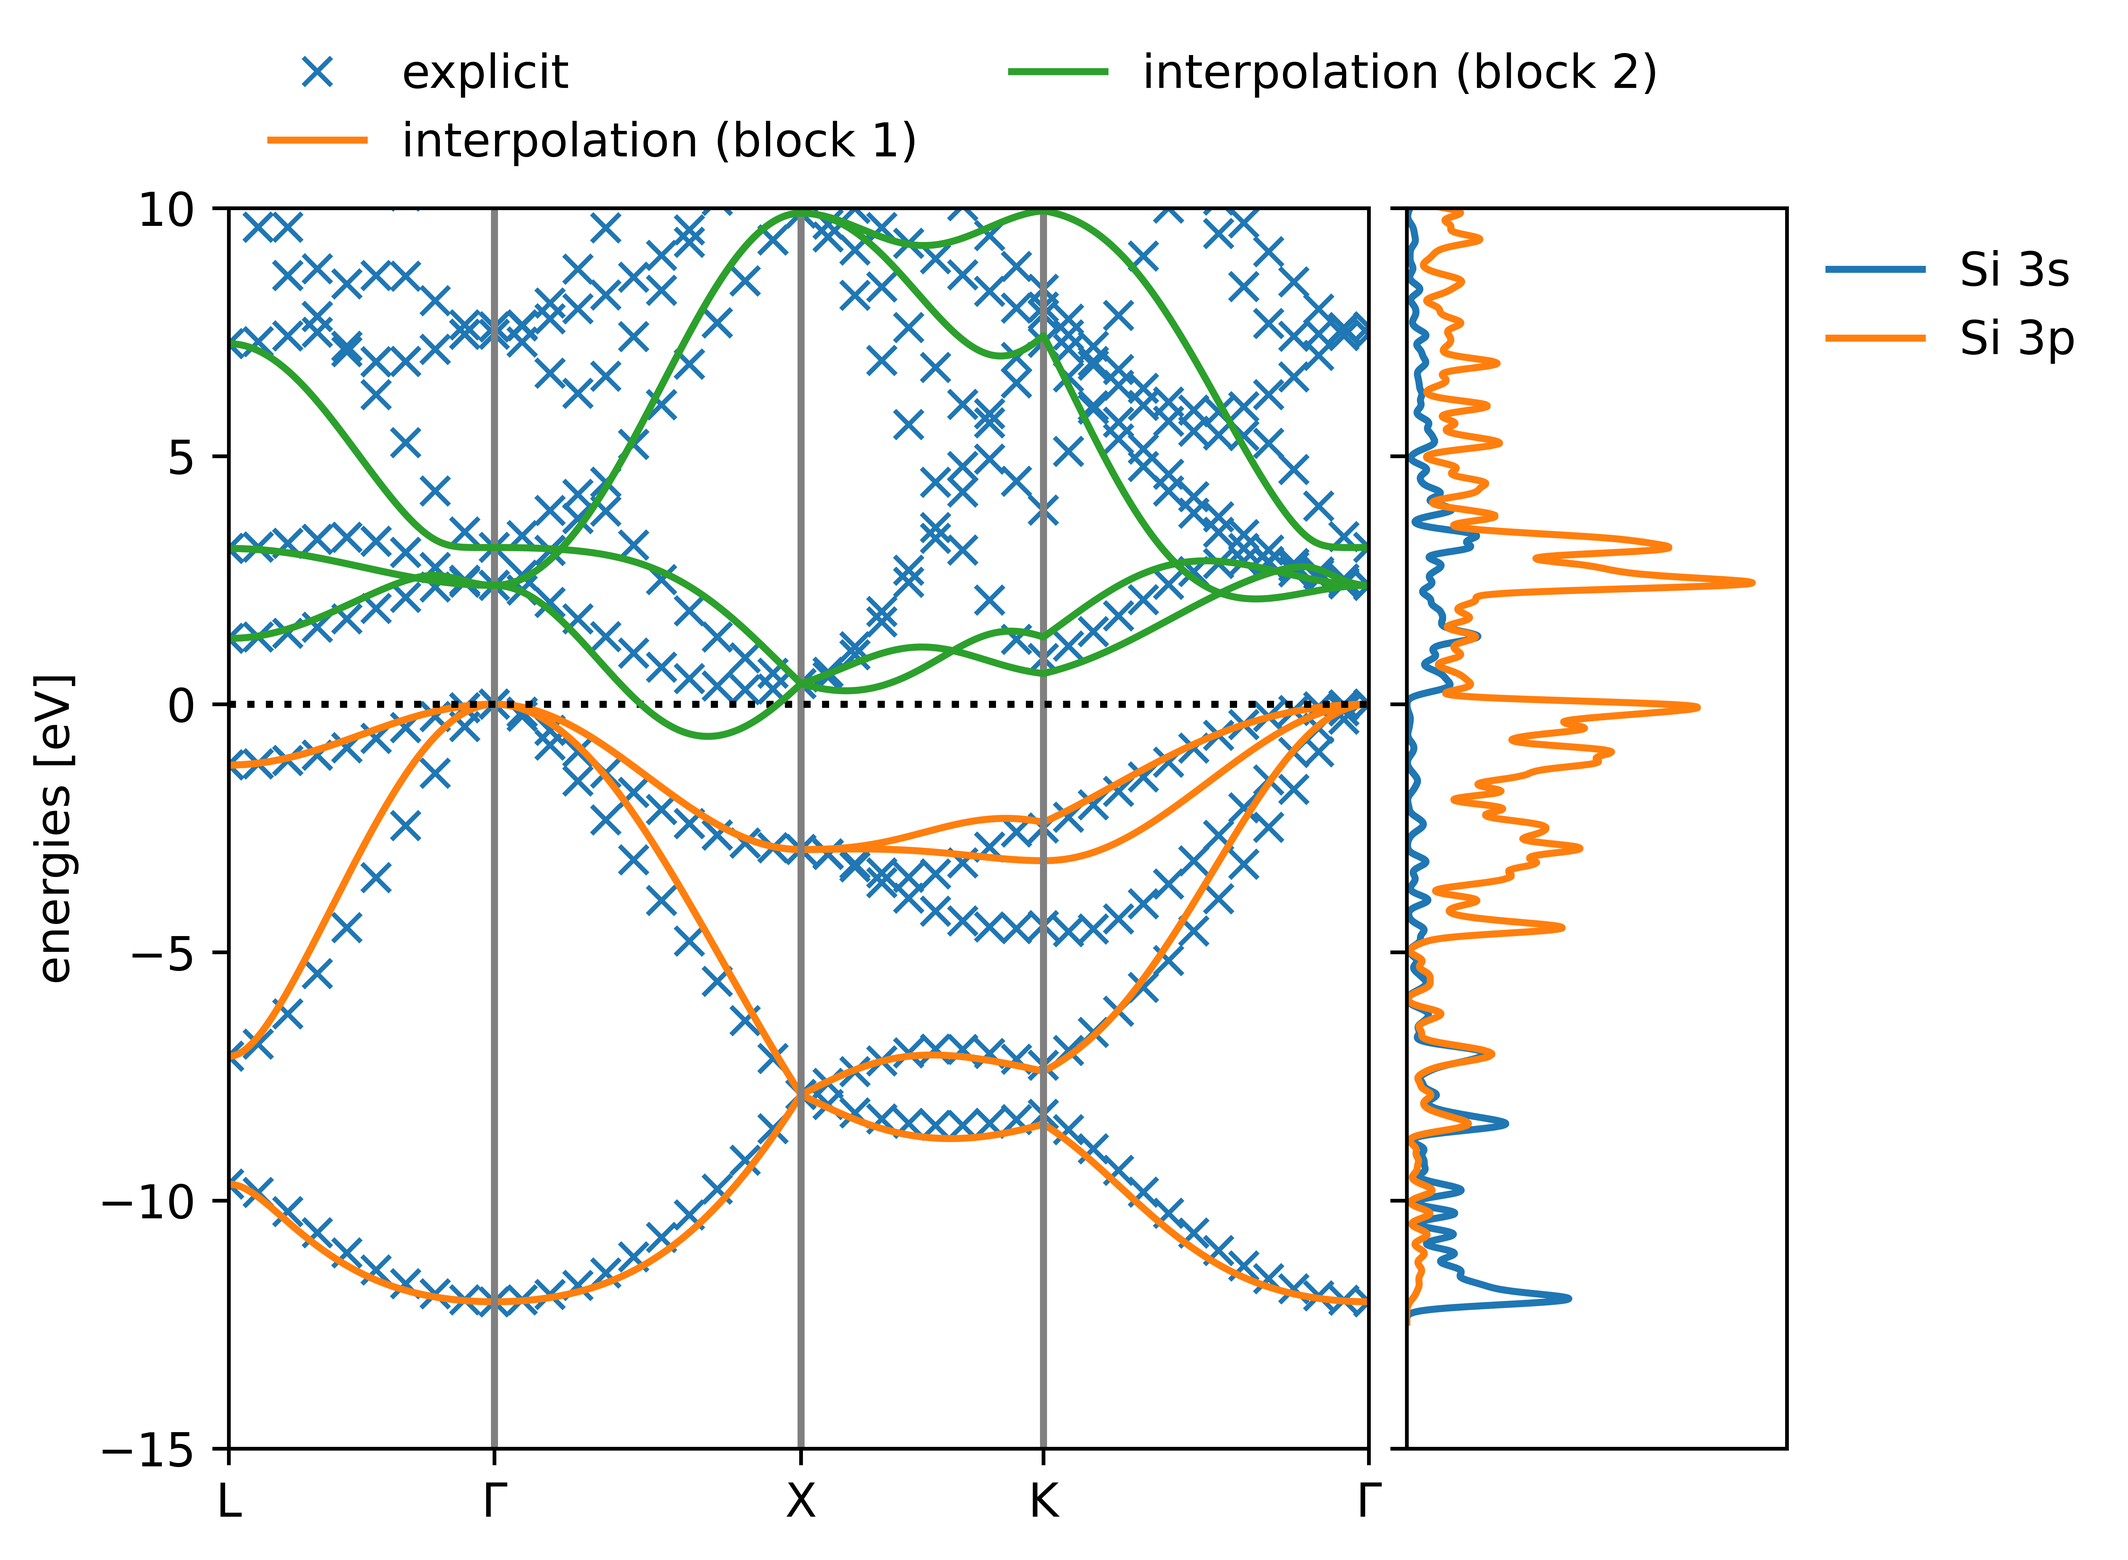
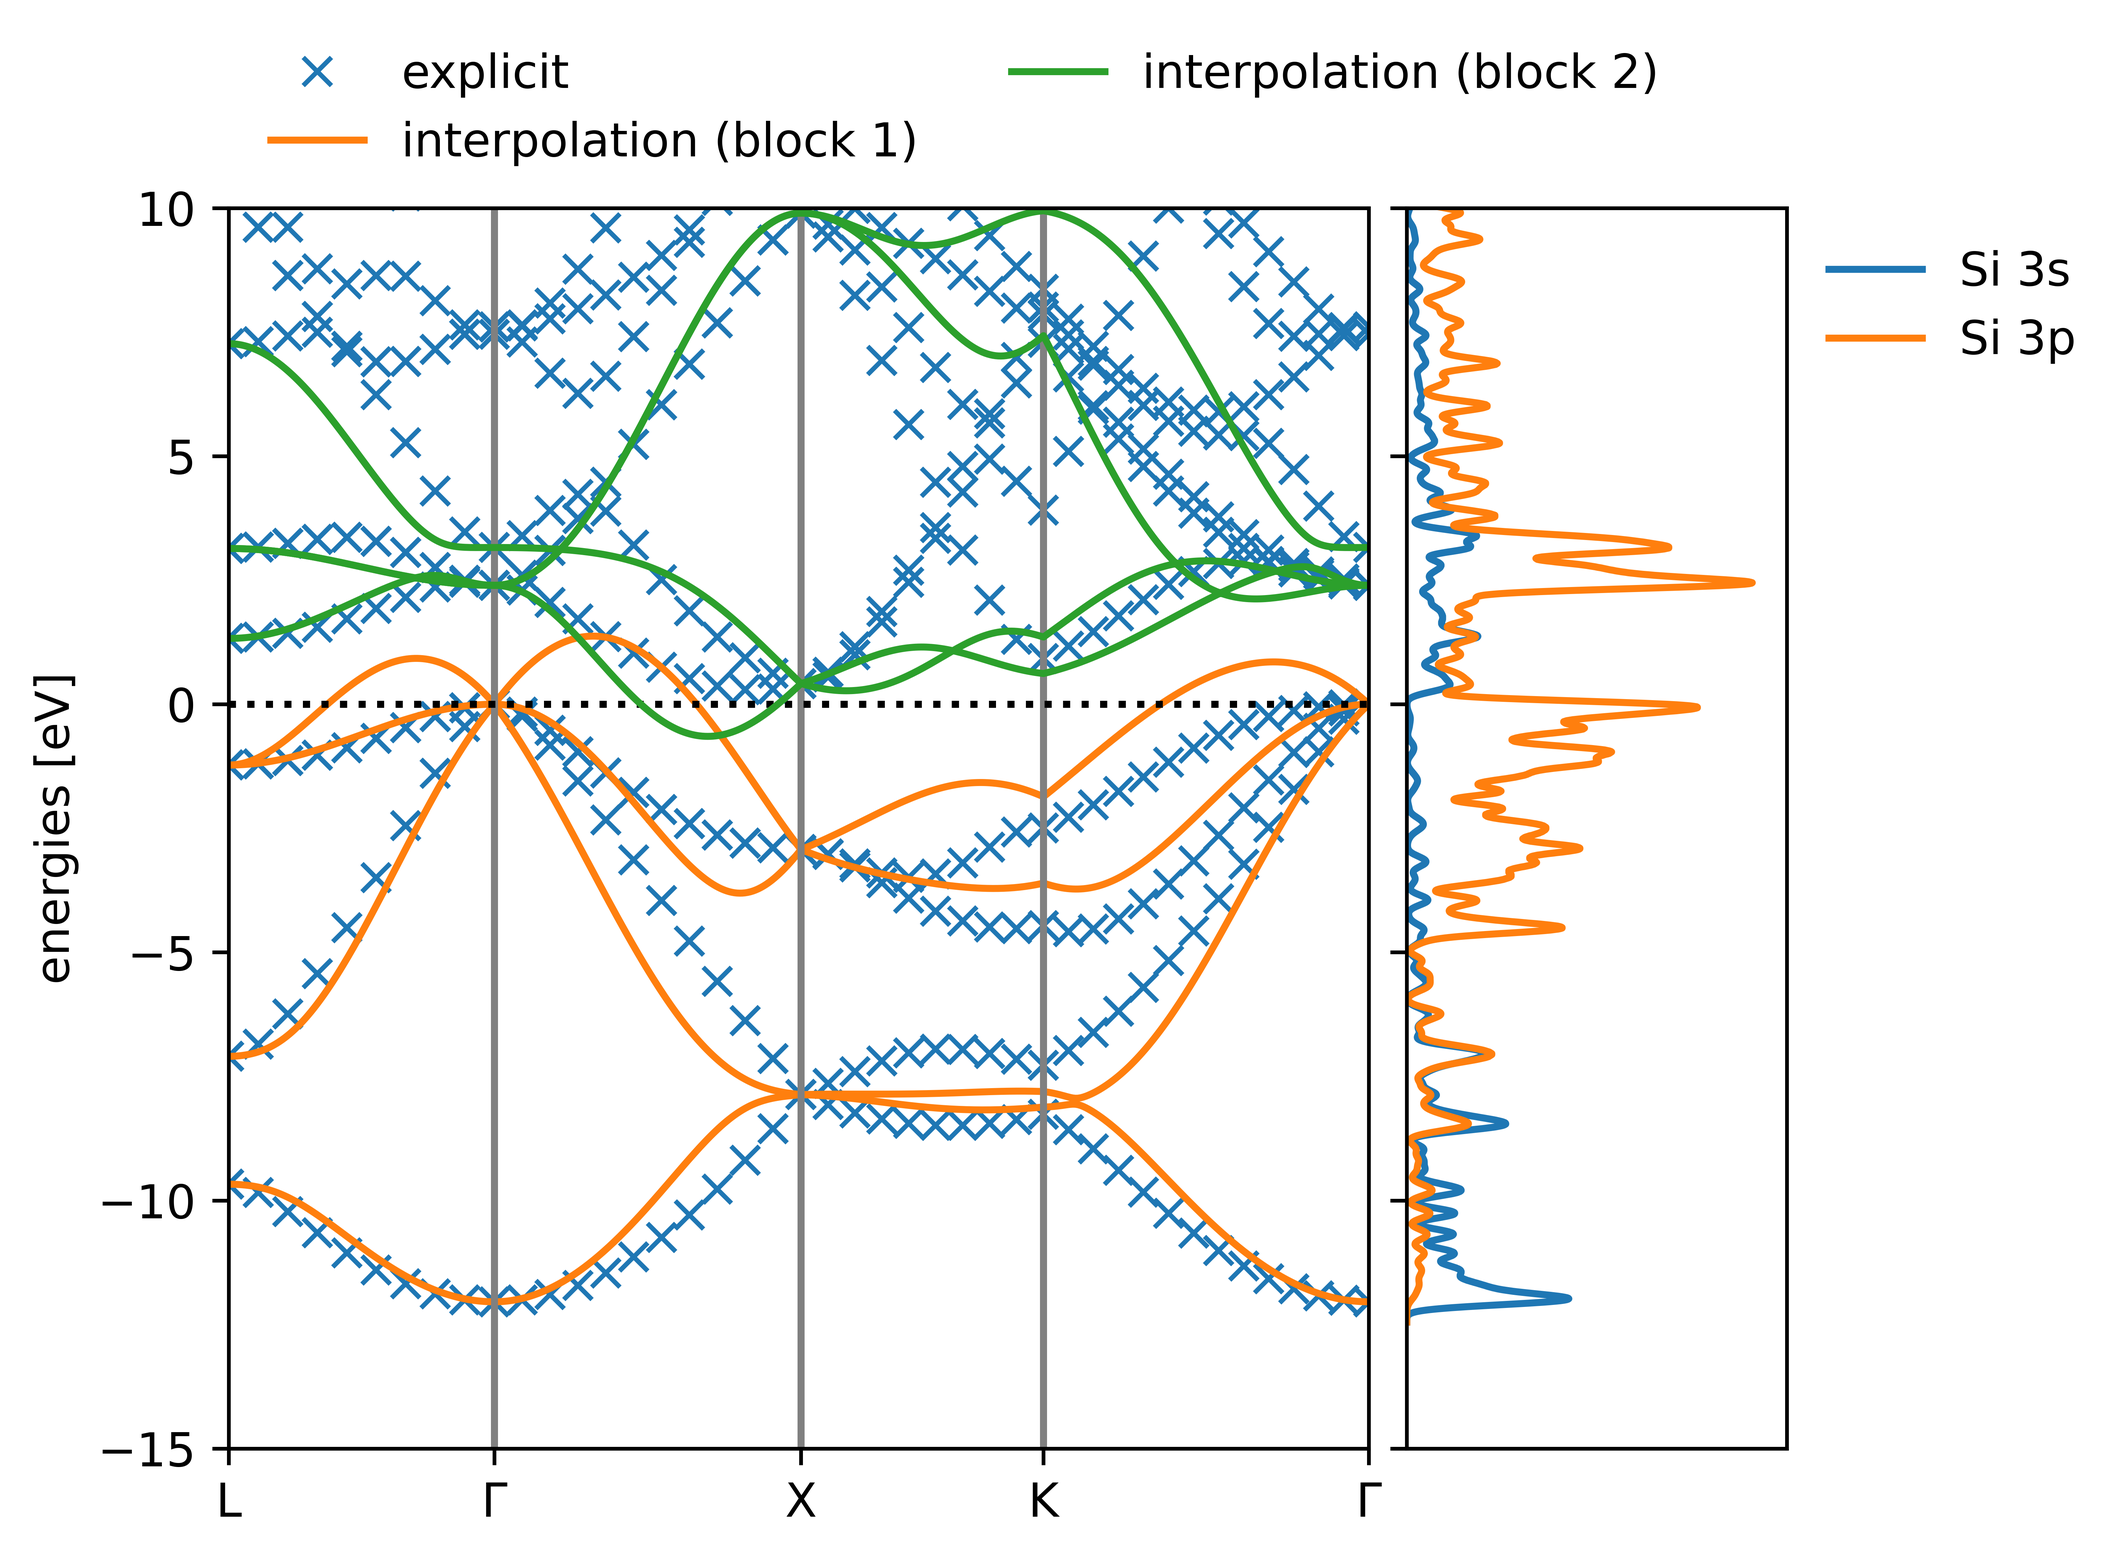
Overhauled sorting

diff --git a/src/koopmans/variational_orbitals.py b/src/koopmans/variational_orbitals.py
@@ -207,7 +207,7 @@ class VariationalOrbitals(BaseModel):
         return [[o.index for o in self if o.spin == spin] for spin in self.spin_channels]
 
     @property
-    def groups(self):
+    def groups(self) -> list[list[int]]:
         """Return a list of the groups of each orbital."""
         return [[o.group for o in self if o.spin == spin] for spin in self.spin_channels]
 
@@ -217,59 +217,7 @@ class VariationalOrbitals(BaseModel):
         for o, v in zip(self, [v for subarray in value for v in subarray]):
             o.group = v
 
-    def _assign_groups_fcluster(self, data, default_tol: float, revised_tol: Optional[float] = None):
-        tol = revised_tol if revised_tol is not None else default_tol
-        if tol < 0.01 * default_tol:
-            raise Exception('Clustering algorithm failed; could not find a clustering with well-separated groups even '
-                            'for much smaller thresholds')
-
-        from scipy.cluster.hierarchy import fcluster, linkage
-
-        # Complete linkage clustering
-        Z = linkage(data, method='complete')
-        labels = fcluster(Z, t=tol, criterion='distance')
-
-        # Check the sets have spreads that are separated by at least 2 * tol
-        clustered_data = [data[labels == i] for i in set(labels)]
-        clusters_edges = [(np.min(c, axis=0), np.max(c, axis=0)) for c in clustered_data]
-
-        well_separated = True
-        for i, cluster_edges in enumerate(clusters_edges):
-            other_cluster_edges = clusters_edges[:i] + clusters_edges[i + 1:]
-
-            if any([np.abs(edge - other_edge).sum() < 2 * tol for edge in cluster_edges for other_edge in
-                    other_cluster_edges]):
-                # The clusters are not well-separated
-                well_separated = False
-                break
-
-        logger = logging.getLogger(__name__)
-        if well_separated:
-            if revised_tol != default_tol:
-                warn(f'It was not possible to group orbitals with a tolerance of '
-                     f'{default_tol:.2e} eV. A grouping was found for a revised tolerance of {revised_tol:.2e} eV. '
-                     f'If you want to group more orbitals together, increase the default tolerance.')
-                logger.info(f'Orbitals groups found using a decreased tolerance of {tol:.2e} eV')
-
-            # Reorder labels to start from 1
-            mapping = {}
-            max_label = 0
-            for label in labels:
-                if label not in mapping:
-                    max_label += 1
-                    mapping[label] = max_label
-
-            return [mapping[label] for label in labels]
-        else:
-            new_tol = 0.9 * tol
-            logger.debug(f'Clusters not well-separated; trying with a reduced tolerance of {new_tol:.2e} eV')
-
-            return self._assign_groups_fcluster(data=data,
-                                                default_tol=default_tol,
-                                                revised_tol=new_tol)
-
-    def assign_groups(self, sort_by: str = 'self_hartree',
-                      allow_reassignment: bool = False):
+    def assign_groups(self, sort_by: str = 'self_hartree', blocks: Optional[List[List[int]]] = None):
         """Cluster the orbitals into groups based on the specified attribute."""
         if self.tolerances == {}:
             # Do not perform clustering
@@ -279,22 +227,40 @@ class VariationalOrbitals(BaseModel):
             return ValueError(f'Cannot sort orbitals according to {sort_by}; valid choices are'
                               + '/'.join(self.tolerances.keys()))
 
+        tol = self.tolerances[sort_by]
         logger = logging.getLogger(__name__)
-        logger.info(f'Grouping orbitals by {sort_by} with tolerance {self.tolerances[sort_by]:.2e} eV')
+        logger.info(f'Grouping orbitals by {sort_by} with tolerance {tol:.2e} eV')
 
         # Construct an array to use for clustering. By adding spin and filled as extra dimensions, we ensure that
         # orbitals with different spins or filling will not be grouped together.
-        all_spin_values = [s for s in Spin]
-        tol = self.tolerances[sort_by]
-        data = np.array([[getattr(o, sort_by), all_spin_values.index(
-            o.spin), -2 * tol if o.filled else 2 * tol] for o in self])
 
+        # Select the subsets
+        if blocks is None:
+            subset_tuples = [(o.spin, o.filled, o.index) for o in self]
+        elif set([b for block in blocks for b in block]) != set([o.index for o in self]):
+            raise ValueError("The provided blocks do not match the indices of the orbitals.")
+        else:
+            subset_tuples = []
+            for orb in self:
+                block_index = next(i for i, block in enumerate(blocks) if orb.index in block)
+                subset_tuples.append((orb.spin, block_index, orb.filled))
+
+        min_group_index = 0
         # Find the groups
-        groups = self._assign_groups_fcluster(data=data, default_tol=tol, revised_tol=tol)
+        for subset in sorted(set(subset_tuples)):
+            orbitals = [o for o, s in zip(self, subset_tuples, strict=True) if s == subset]
+            data = [[getattr(o, sort_by)] for o in orbitals]
 
-        # Assign the groups
-        for orbital, group in zip(self.orbitals, groups):
-            orbital.group = group
+            # Find the groups
+            if len(data) == 1:
+                groups = [1]
+            else:
+                groups = _assign_groups_fcluster(data=np.array(data), default_tol=tol, revised_tol=tol)
+
+            # Assign the groups
+            for orbital, group in zip(orbitals, groups):
+                orbital.group = group + min_group_index
+            min_group_index += max(groups)
 
         # Logging
         for spin_groups in self.groups:
@@ -455,3 +421,55 @@ class VariationalOrbitals(BaseModel):
     def predicted_alpha_history(self, spin: Spin = Spin.NONE) -> pd.DataFrame:
         """Return a dataframe that contains the history of the predicted screening parameters."""
         return self._create_dataframe('predicted_alpha', spin=spin)
+
+
+def _assign_groups_fcluster(data, default_tol: float, revised_tol: Optional[float] = None) -> list[int]:
+    tol = revised_tol if revised_tol is not None else default_tol
+    if tol < 0.01 * default_tol:
+        raise Exception('Clustering algorithm failed; could not find a clustering with well-separated groups even '
+                        'for much smaller thresholds')
+
+    from scipy.cluster.hierarchy import fcluster, linkage
+
+    # Complete linkage clustering
+    Z = linkage(data, method='complete')
+    labels = fcluster(Z, t=tol, criterion='distance')
+
+    # Check the sets have spreads that are separated by at least 2 * tol
+    clustered_data = [data[labels == i] for i in set(labels)]
+    clusters_edges = [(np.min(c, axis=0), np.max(c, axis=0)) for c in clustered_data]
+
+    well_separated = True
+    for i, cluster_edges in enumerate(clusters_edges):
+        other_cluster_edges = clusters_edges[:i] + clusters_edges[i + 1:]
+
+        if any([np.abs(edge - other_edge).sum() < 2 * tol for edge in cluster_edges for other_edge in
+                other_cluster_edges]):
+            # The clusters are not well-separated
+            well_separated = False
+            break
+
+    logger = logging.getLogger(__name__)
+    if well_separated:
+        if revised_tol != default_tol:
+            warn(f'It was not possible to group orbitals with a tolerance of '
+                 f'{default_tol:.2e} eV. A grouping was found for a revised tolerance of {revised_tol:.2e} eV. '
+                 f'If you want to group more orbitals together, increase the default tolerance.')
+            logger.info(f'Orbitals groups found using a decreased tolerance of {tol:.2e} eV')
+
+        # Reorder labels to start from 1
+        mapping = {}
+        max_label = 0
+        for label in labels:
+            if label not in mapping:
+                max_label += 1
+                mapping[label] = max_label
+
+        return [mapping[label] for label in labels]
+    else:
+        new_tol = 0.9 * tol
+        logger.debug(f'Clusters not well-separated; trying with a reduced tolerance of {new_tol:.2e} eV')
+
+        return _assign_groups_fcluster(data=data,
+                                       default_tol=default_tol,
+                                       revised_tol=new_tol)

diff --git a/src/koopmans/workflows/_koopmans_dfpt.py b/src/koopmans/workflows/_koopmans_dfpt.py
@@ -218,6 +218,13 @@ class KoopmansDFPTWorkflow(Workflow[KoopmansDFPTOutputs]):
                     wannier_files_to_link_by_spin[-1][u_dis_file] = \
                         wf_workflow.outputs.u_dis_files[block_id]
 
+                if unique:
+                    # Also add the separated occupied and empty Hamiltonian files to dft_ham_files
+                    for filled in [True, False]:
+                        block_id = BlockID(filled=filled, spin=spin, unique=False)
+                        dft_ham_files[block_id] = wf_workflow.outputs.hr_files[block_id]
+
+            blocks = [p.include_bands for p in wf_workflow.outputs.projections]
         else:
             # Run PW
             self.print('Initialization of density and variational orbitals', style='heading')
@@ -236,6 +243,7 @@ class KoopmansDFPTWorkflow(Workflow[KoopmansDFPTOutputs]):
 
             init_pw = pw_workflow.calculations[0]
             wannier_files_to_link_by_spin = [{}, {}] if self.parameters.spin_polarized else [{}]
+            blocks = []
 
         spin_components = [1, 2] if self.parameters.spin_polarized else [1]
 
@@ -265,7 +273,8 @@ class KoopmansDFPTWorkflow(Workflow[KoopmansDFPTOutputs]):
             if self.parameters.calculate_alpha:
                 if self.parameters.dfpt_coarse_grid is None:
                     screen_wf = ComputeScreeningViaDFPTWorkflow.fromparent(
-                        self, wannier_files_to_link=wannier_files_to_link, spin_component=spin_component)
+                        self, wannier_files_to_link=wannier_files_to_link, spin_component=spin_component,
+                        blocks=blocks)
                     screen_wf.name += spin_suffix
                     screen_wfs.append(screen_wf)
             else:
@@ -394,15 +403,17 @@ class ComputeScreeningViaDFPTWorkflow(Workflow[ComputeScreeningViaDFPTOutputs]):
 
     output_model = ComputeScreeningViaDFPTOutputs
 
-    def __init__(self, *args, spin_component: int, wannier_files_to_link: Dict[str, File], **kwargs):
+    def __init__(self, *args, spin_component: int, wannier_files_to_link: Dict[str, File],
+                 blocks: list[list[int]] | None = None, **kwargs):
         super().__init__(*args, **kwargs)
 
         self._wannier_files_to_link = wannier_files_to_link
         self._spin_component = spin_component
+        self._blocks = blocks
 
     def _run(self):
         # Group the variational orbitals by spread
-        self.variational_orbitals.assign_groups(sort_by='spread', allow_reassignment=True)
+        self.variational_orbitals.assign_groups(sort_by='spread', blocks=self._blocks)
 
         if len(self.variational_orbitals.to_solve) == len(self.variational_orbitals):
             # If there is no orbital grouping, do all orbitals in one calculation

diff --git a/src/koopmans/workflows/_wannierize.py b/src/koopmans/workflows/_wannierize.py
@@ -608,13 +608,15 @@ class WannierizeBlockWorkflow(Workflow[WannierizeBlockOutput]):
 
         if self.variational_orbitals is not None:
             # Add centers and spreads info to self.variational_orbitals
-            remaining_bands = [b for b in self.variational_orbitals if b.center is None and b.spin == self.block.spin]
+            exclude_bands = calc_w90.parameters.exclude_bands or []
+            orbs = [b for b in self.variational_orbitals if b.spin == self.block.spin
+                    and b.index not in exclude_bands]
 
             centers = calc_w90.results['centers']
             spreads = calc_w90.results['spreads']
-            for band, center, spread in zip(remaining_bands, centers, spreads):
-                band.center = center
-                band.spread = spread
+            for orb, center, spread in zip(orbs, centers, spreads):
+                orb.center = center
+                orb.spread = spread
 
         hr_file = File(calc_w90, calc_w90.prefix + '_hr.dat') if calc_w90.parameters.write_hr else None
         u_file = File(calc_w90, calc_w90.prefix + '_u.mat') if calc_w90.parameters.write_u_matrices else None

diff --git a/src/koopmans/cli/main.py b/src/koopmans/cli/main.py
@@ -49,7 +49,7 @@ def initialize_engine(engine_arg: str, engine_config: str | None) -> Engine:
     elif engine_arg == 'aiida':
         # raise NotImplementedError("AiiDA engine is not yet implemented")
         # Uncomment the following lines once aiida-koopmans is available
-        from aiida_koopmans.engine.aiida import AiiDAEngine, AiiDAStepsData
+        from aiida_koopmans.engine import AiiDAEngine, AiiDAStepsData
         if engine_config is not None:
             with open(engine_config, 'r') as f:
                 engine_config = json.load(f)

diff --git a/src/koopmans/workflows/_workflow.py b/src/koopmans/workflows/_workflow.py
@@ -292,6 +292,8 @@ class Workflow(utils.HasDirectory, ABC, Generic[OutputModel]):
                     else:
                         # If |mag| >= 1, QE interprets this as site magnetization
                         starting_magmoms[l] = mag
+                import ipdb
+                ipdb.set_trace()
                 atoms.set_initial_magnetic_moments([starting_magmoms[label] for label in labels])
             elif tot_mag != 0:
                 atoms.set_initial_magnetic_moments([tot_mag / len(atoms) for _ in atoms])

diff --git a/src/koopmans/workflows/_koopmans_dscf.py b/src/koopmans/workflows/_koopmans_dscf.py
@@ -546,7 +546,7 @@ class DeltaSCFIterationWorkflow(Workflow[DeltaSCFIterationOutputs]):
         self.variational_orbitals.self_hartrees = trial_calc.results['orbital_data']['self-Hartree']
 
         # Group the variational orbitals
-        self.variational_orbitals.assign_groups(allow_reassignment=True)
+        self.variational_orbitals.assign_groups()
 
         skipped_orbitals = []
         # Calculate the power spectrum if required
